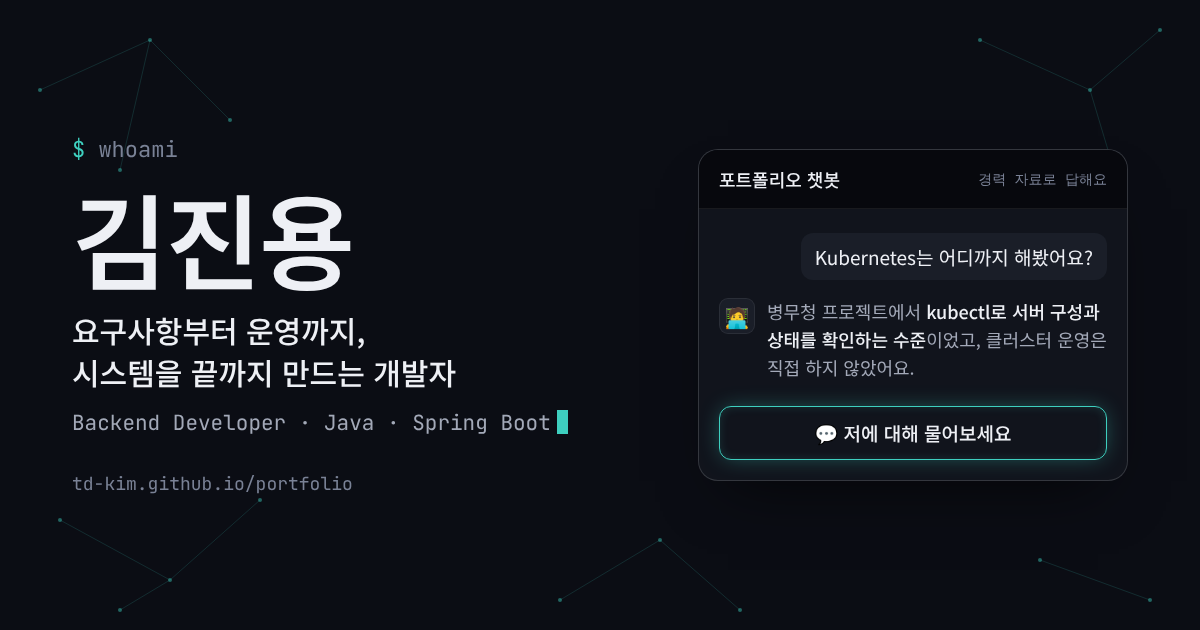
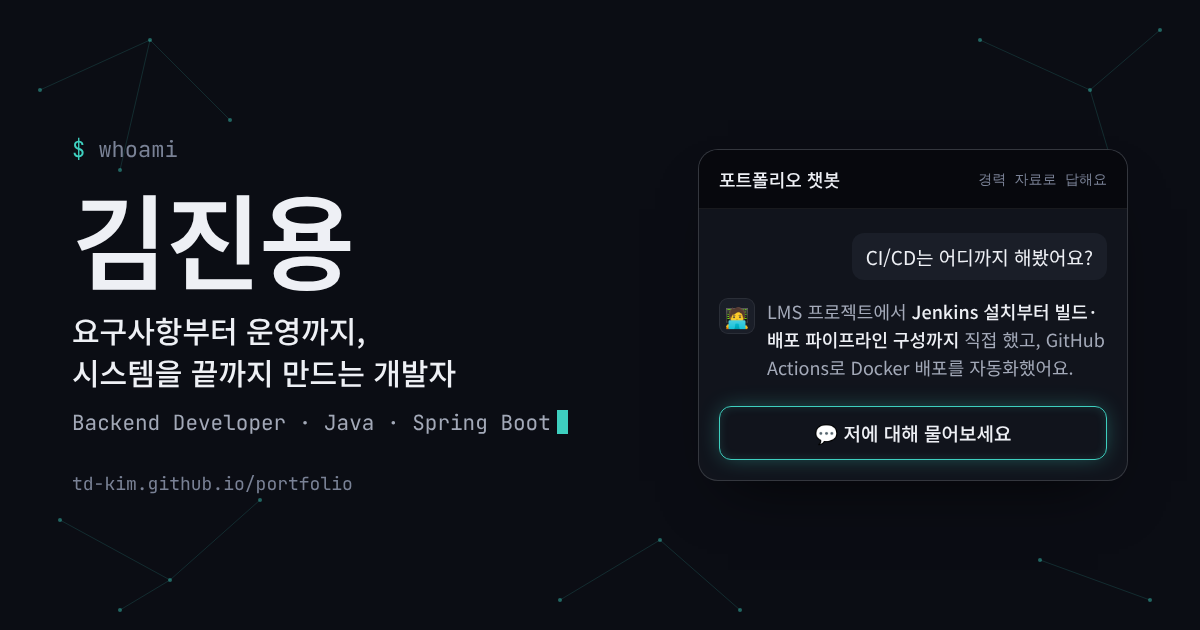
Show a CI/CD answer in the hero chat preview and link preview image
Claude-Session: https://claude.ai/code/session_01X4hFs1AcsMHmFks4xLxVyt

Changed region(s): [[0.6167, 0.4825, 0.925, 0.6032], [0.6783, 0.3921, 0.7708, 0.4222]]

diff --git a/index.html b/index.html
@@ -19,7 +19,7 @@
   <meta property="og:url" content="https://td-kim.github.io/portfolio/" />
   <meta property="og:title" content="김진용 | Backend Developer" />
   <meta property="og:description" content="Java · Spring Boot로 공공·기업 시스템을 만들어 온 5년 차 개발자. 챗봇에게 저에 대해 물어보세요." />
-  <meta property="og:image" content="https://td-kim.github.io/portfolio/og.png?v=2" />
+  <meta property="og:image" content="https://td-kim.github.io/portfolio/og.png?v=3" />
   <meta property="og:image:width" content="1200" />
   <meta property="og:image:height" content="630" />
   <meta name="twitter:card" content="summary_large_image" />
@@ -67,10 +67,10 @@
           <span class="chat-meta mono">경력 자료로 답해요</span>
         </span>
         <span class="chat-body">
-          <span class="msg msg-user">Kubernetes는 어디까지 해봤어요?</span>
+          <span class="msg msg-user">CI/CD는 어디까지 해봤어요?</span>
           <span class="msg msg-bot">
             <span class="avatar" aria-hidden="true">🧑💻</span>
-            <span class="msg-text">병무청 디지털 플랫폼 개발(에니아소프트, 2025.06~)에서 접했어요. 직접 맡은 범위는 <b>kubectl로 서버 구성과 상태를 확인하는 수준</b>이고, 클러스터 구성·배포 설정·운영은 직접 하지 않았어요.</span>
+            <span class="msg-text">LMS 학습관리시스템(에이치에스 컴퍼니)에서 <b>Jenkins 서버 설치부터 빌드·배포 파이프라인 구성까지</b> 직접 했어요. GitHub Actions 워크플로를 작성해 Docker 이미지 빌드부터 서버 배포까지 자동화했고, 기업 홈페이지 프로젝트에서도 GitHub Actions로 CI/CD를 구축했어요.</span>
           </span>
         </span>
         <button type="button" class="chat-input" aria-label="챗봇 열고 질문하기"><span>질문을 입력하세요</span><span class="send" aria-hidden="true">↑</span></button>
